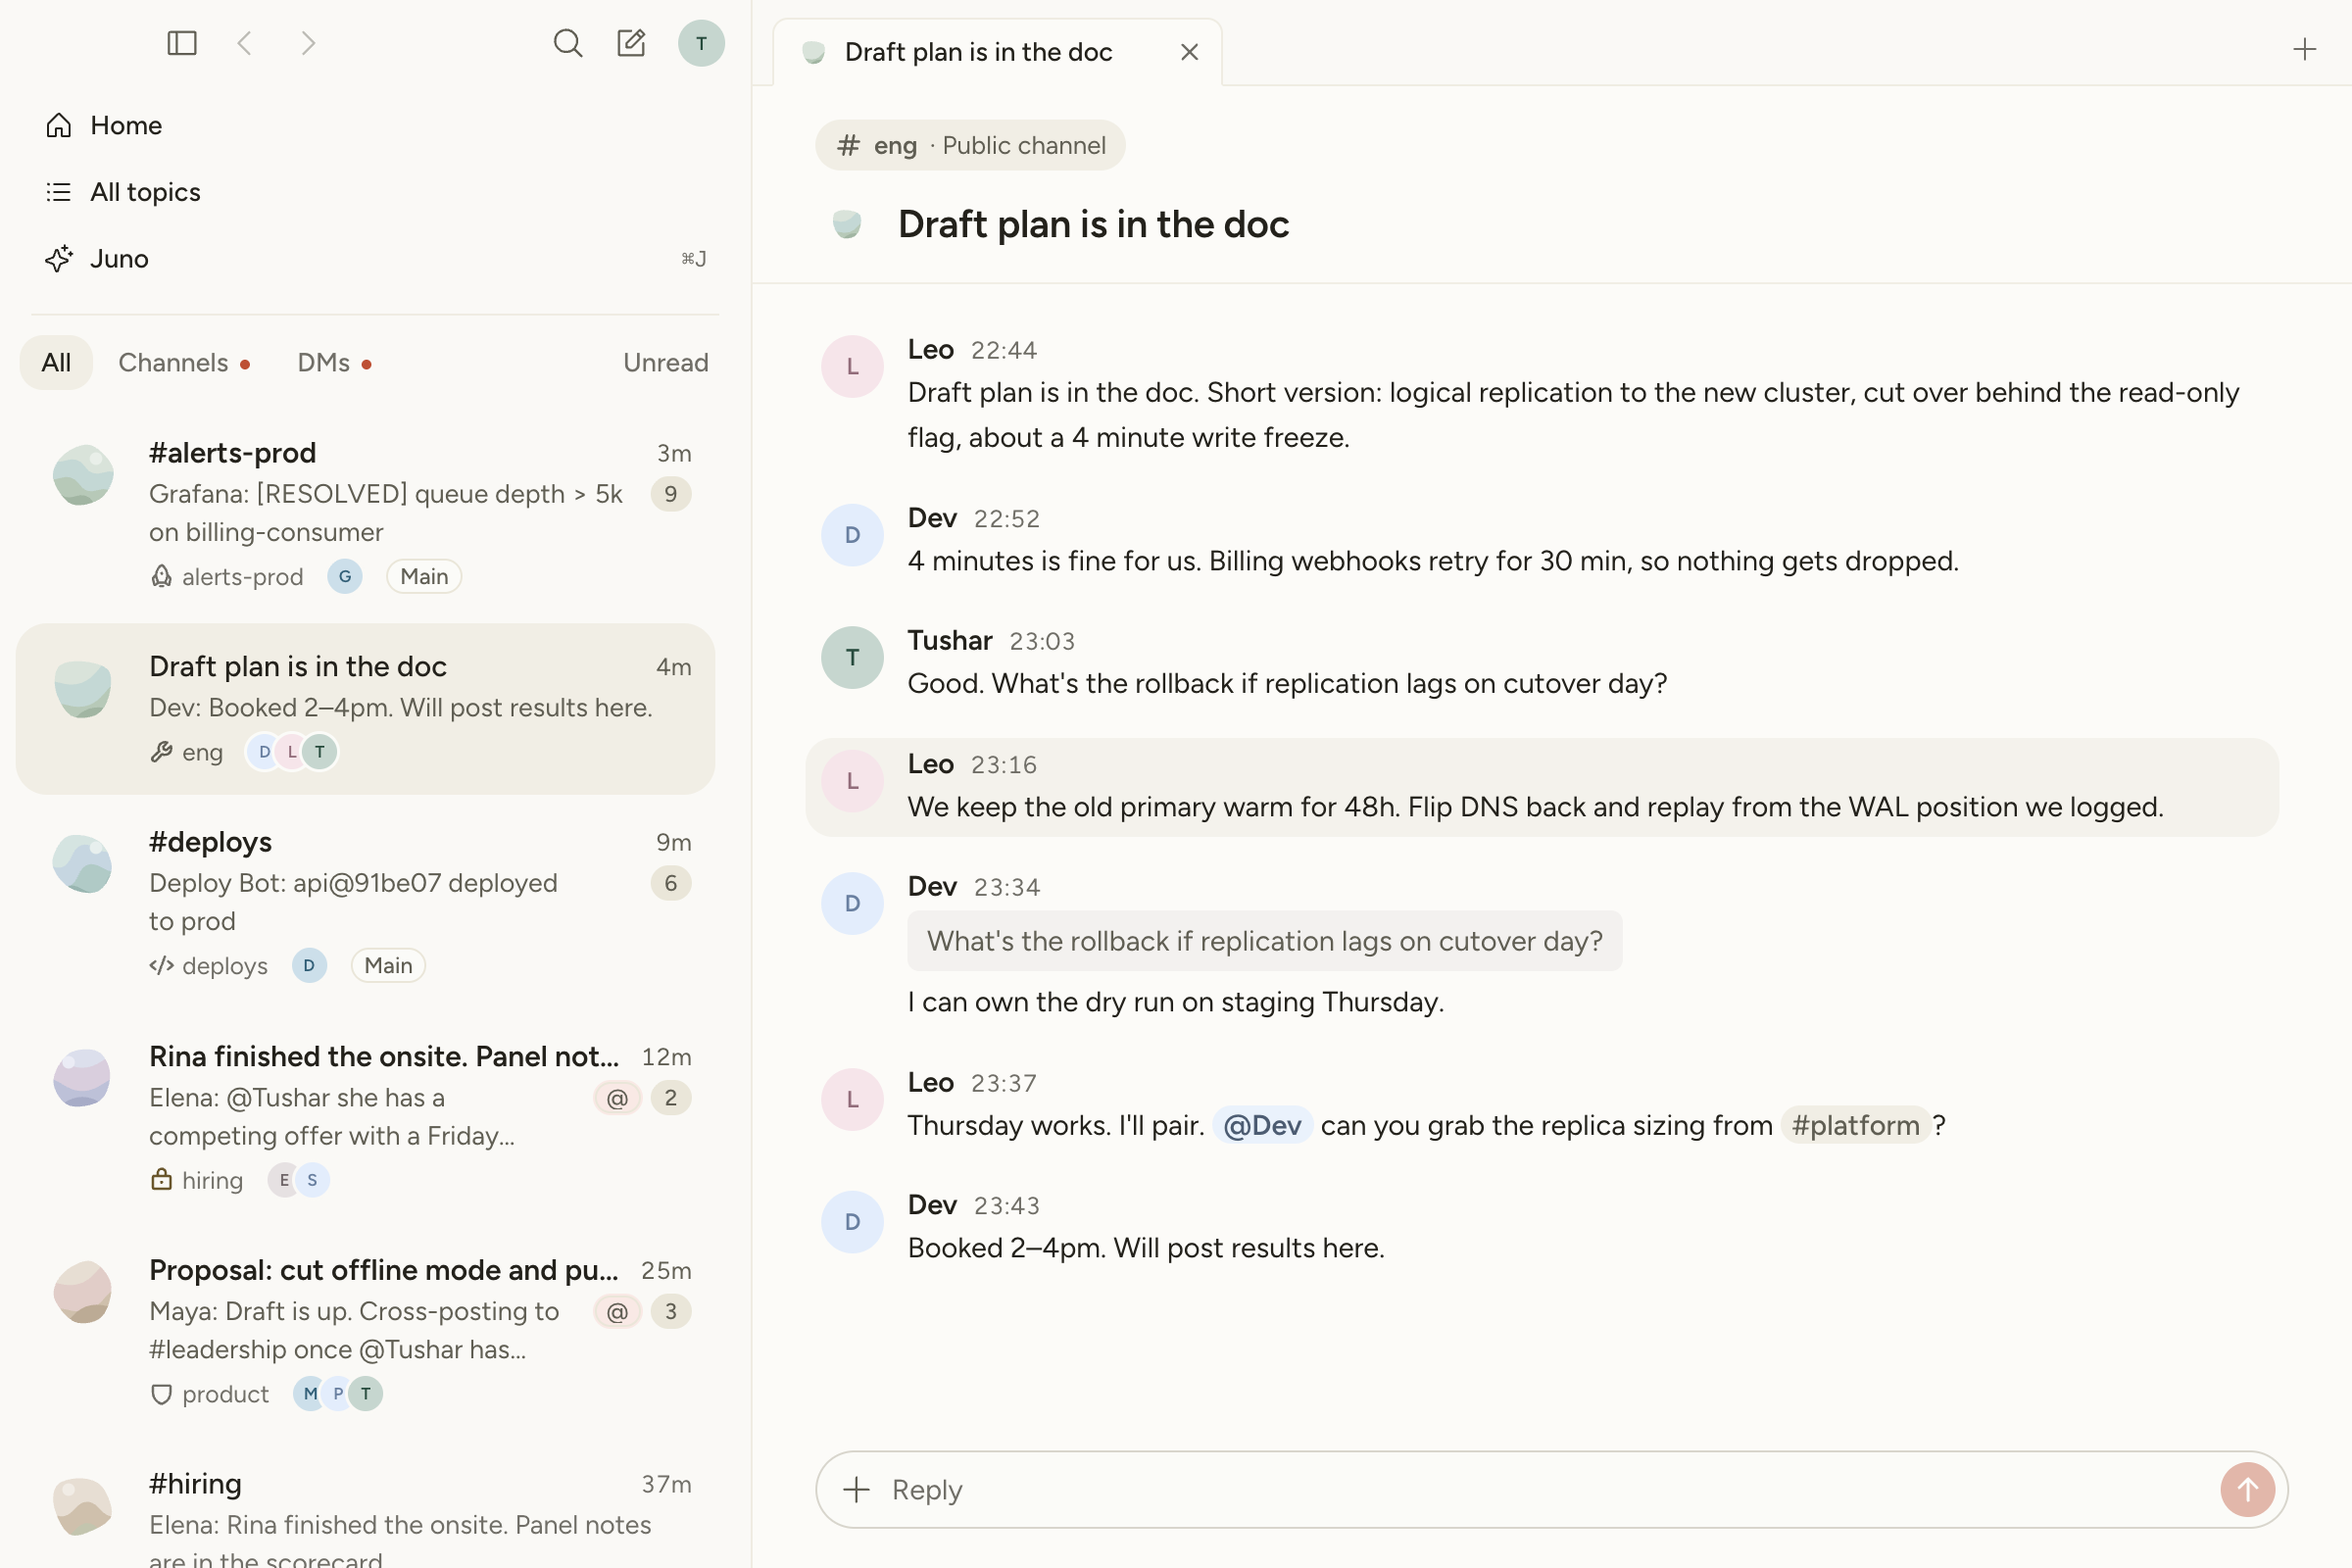
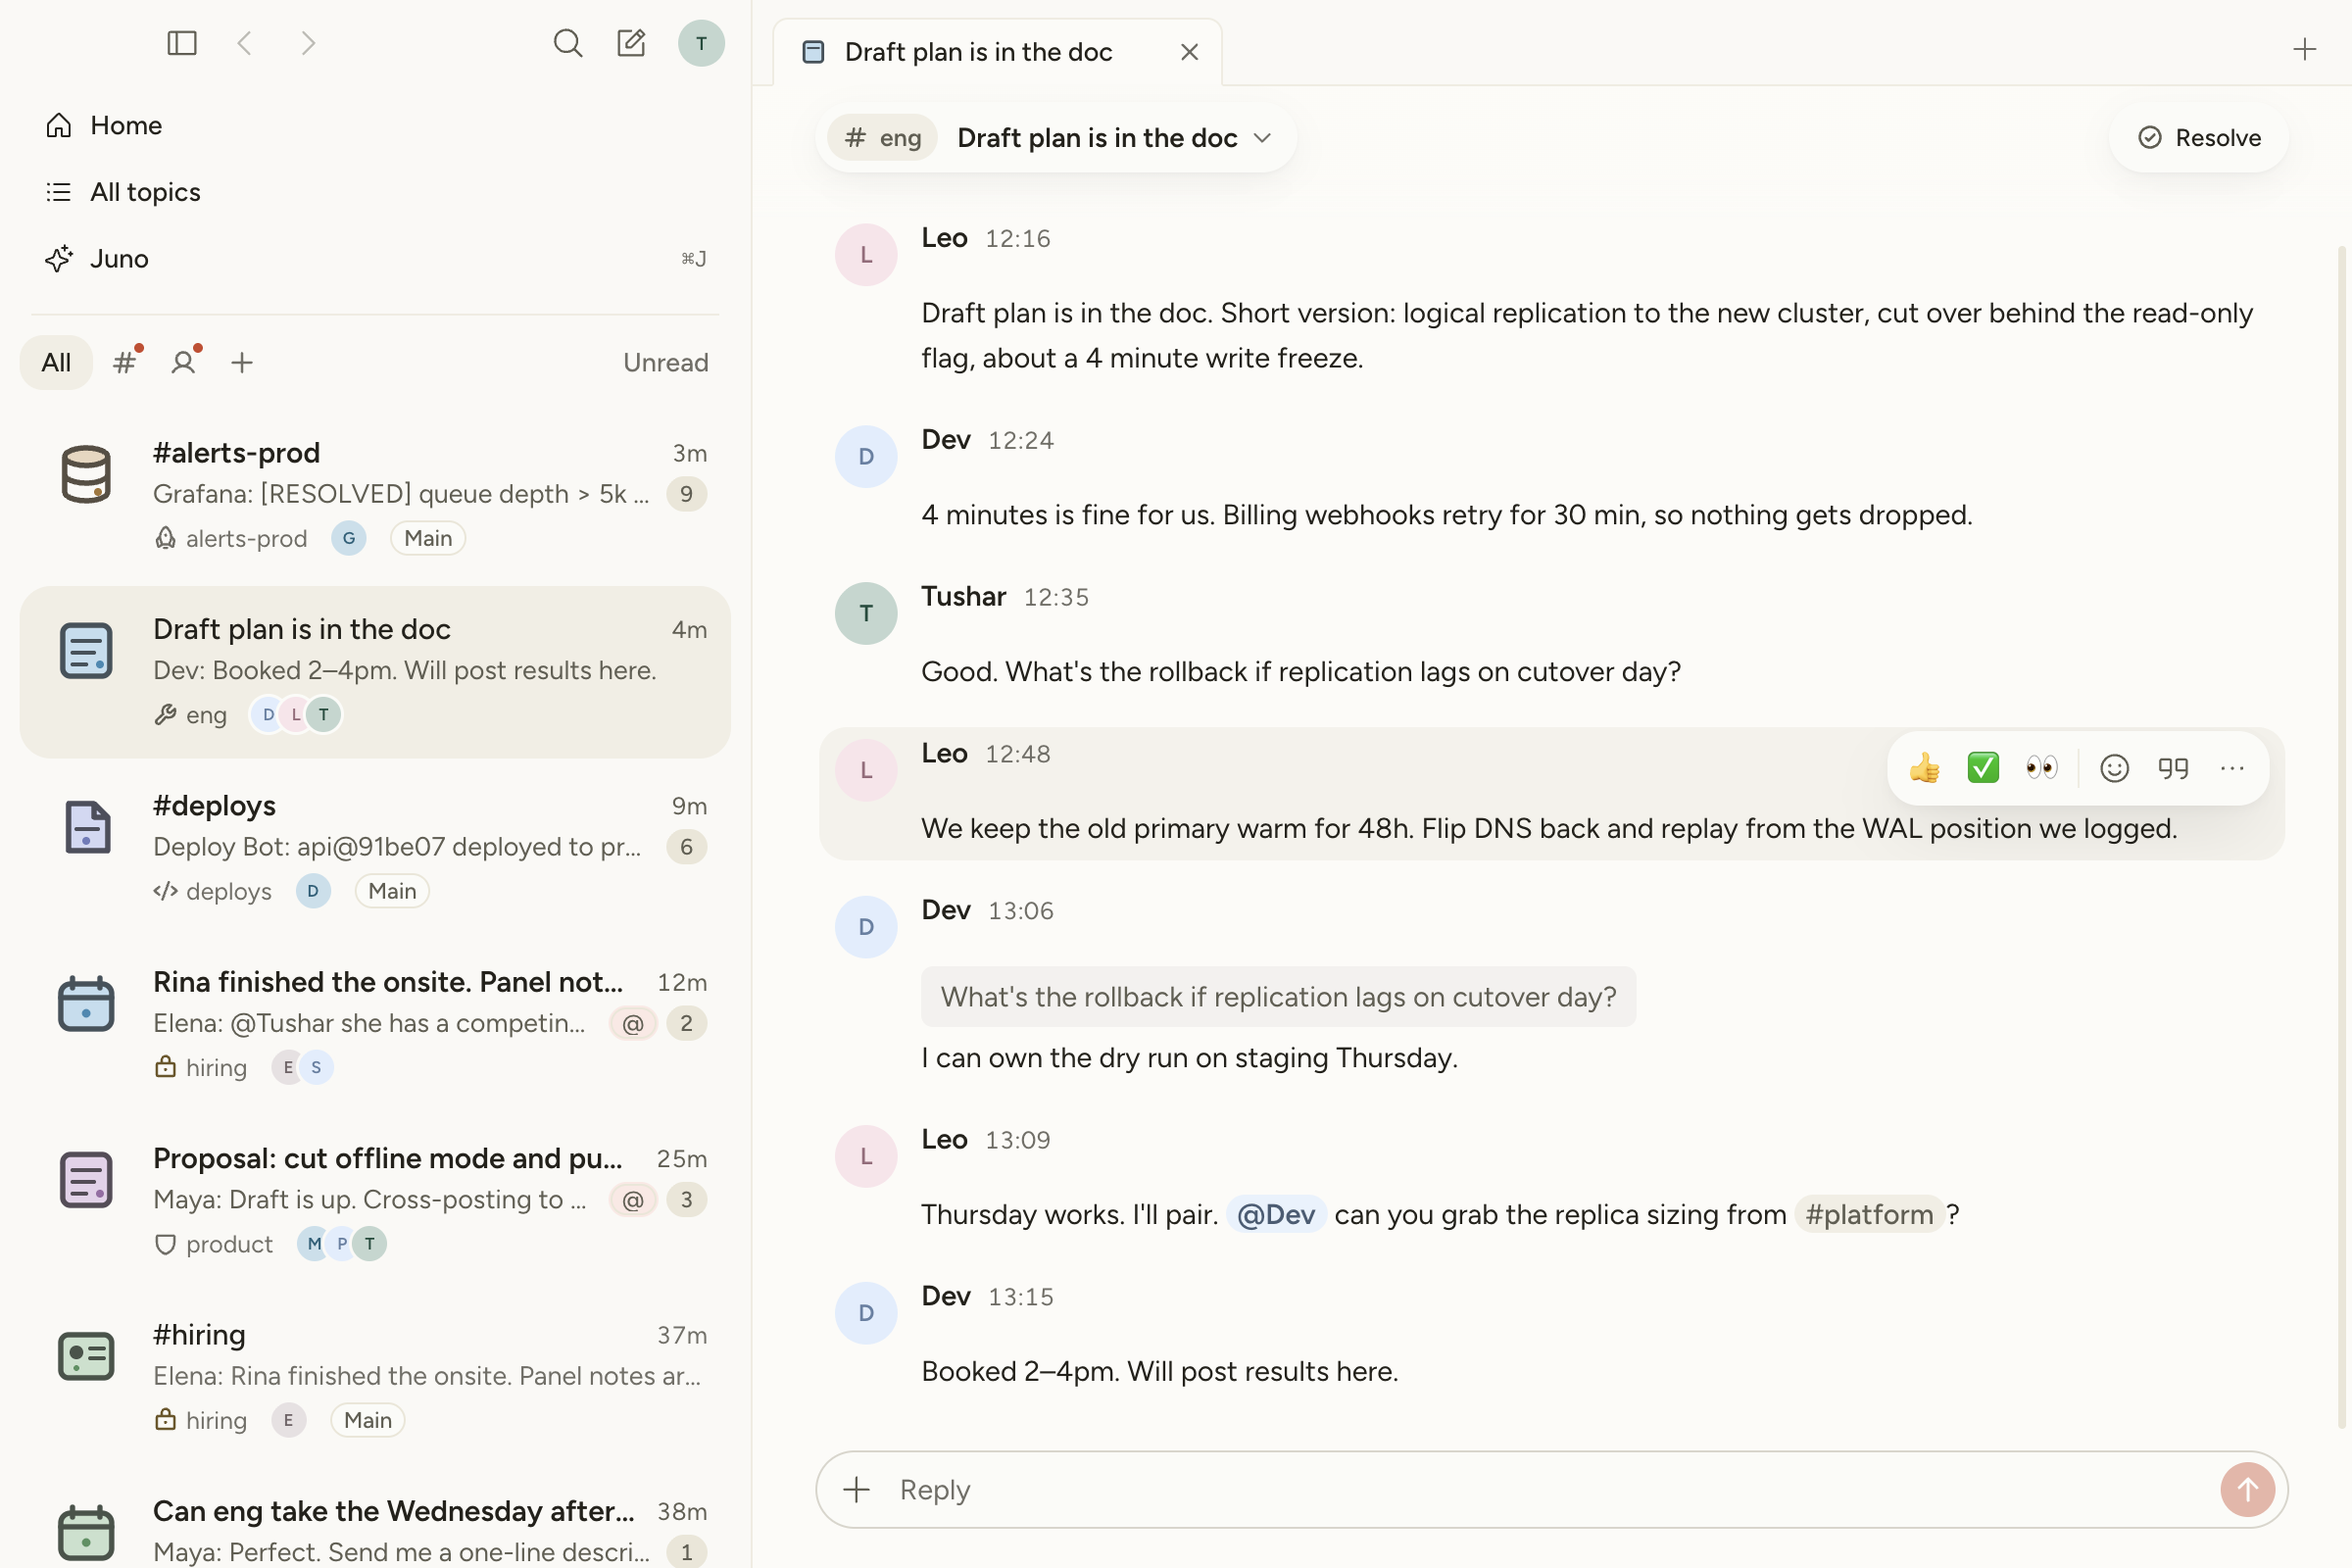
Take real-app screenshots of the sidebar views and the one-line preview

diff --git a/apps/desktop/e2e/screens.spec.ts b/apps/desktop/e2e/screens.spec.ts
@@ -31,6 +31,33 @@ test('the sidebar, light and dark', async ({ juno, win }) => {
   await win.screenshot({ path: resolve(screens, 'sidebar-dark.png') })
 })
 
+test('sidebar views: the pill row with views, a mention dot and the view sheet, light and dark', async ({ juno, win, fake }) => {
+  test.setTimeout(180_000)
+  await juno.signIn()
+  await juno.waitForSync()
+  const { sidebar } = juno
+  await sidebar.createView({ name: 'Bots', icon: 'Robot', conversations: ['alerts-prod'], keepOutOfAll: true })
+  await sidebar.createView({ name: 'Design crit', conversations: ['eng'] })
+  await sidebar.createView({ name: 'Leadership', conversations: ['hiring'] })
+  await sidebar.createView({ name: 'Work', icon: 'Briefcase' })
+  await sidebar.filter('All')
+  fake.injectMessage({ channel: 'C0ALERTSPROD', user: 'U0LEO', text: '<@U0TUSHAR> can you take the pager tonight?' })
+  await sidebar.expectViewDot('Bots', true)
+  for (const theme of ['light', 'dark'] as const) {
+    if (theme === 'dark') await juno.setTheme('Dark')
+    await win.mouse.move(900, 400)
+    await expect(win.locator('html')).not.toHaveAttribute('data-theme-switching', /.*/)
+    await win.evaluate(() => document.fonts.ready)
+    await win.waitForTimeout(300)
+    await win.screenshot({ path: resolve(screens, `views-${theme}.png`) })
+    await sidebar.viewMenu('Bots', 'view-edit')
+    await expect(sidebar.viewSheet).toBeVisible()
+    await win.waitForTimeout(300)
+    await win.screenshot({ path: resolve(screens, `views-sheet-${theme}.png`) })
+    await sidebar.viewSheet.getByRole('button', { name: 'Cancel' }).click()
+  }
+})
+
 test('peek, light and dark', async ({ juno, win }) => {
   test.setTimeout(120_000)
   await juno.signIn()

diff --git a/docs/design/sidebar-views/README.md b/docs/design/sidebar-views/README.md
@@ -18,3 +18,5 @@ The owner's request (10-15, `docs/decision-log.md`): more custom views in the si
 - **The dot sits in the pill's corner**, so icon pills stay 28×28 and nothing moves when it shows.
 - **Keep these out of All is a checkbox**, as in a macOS sheet; the app has no switch primitive and one checkbox is enough.
 - **Juno making a view** ("make a Bots view with every alerts channel") is a seam: the engine's `views.save` is the command a Juno settings tool will call. Wiring it into the agent needs a new AgentHost route, so it is left for the agent work.
+
+`before-two-line-light.png` and `before-two-line-dark.png` are the real app before the preview became one line (10-15); `docs/design/screens/sidebar-*.png` and `views-*.png` are after.
